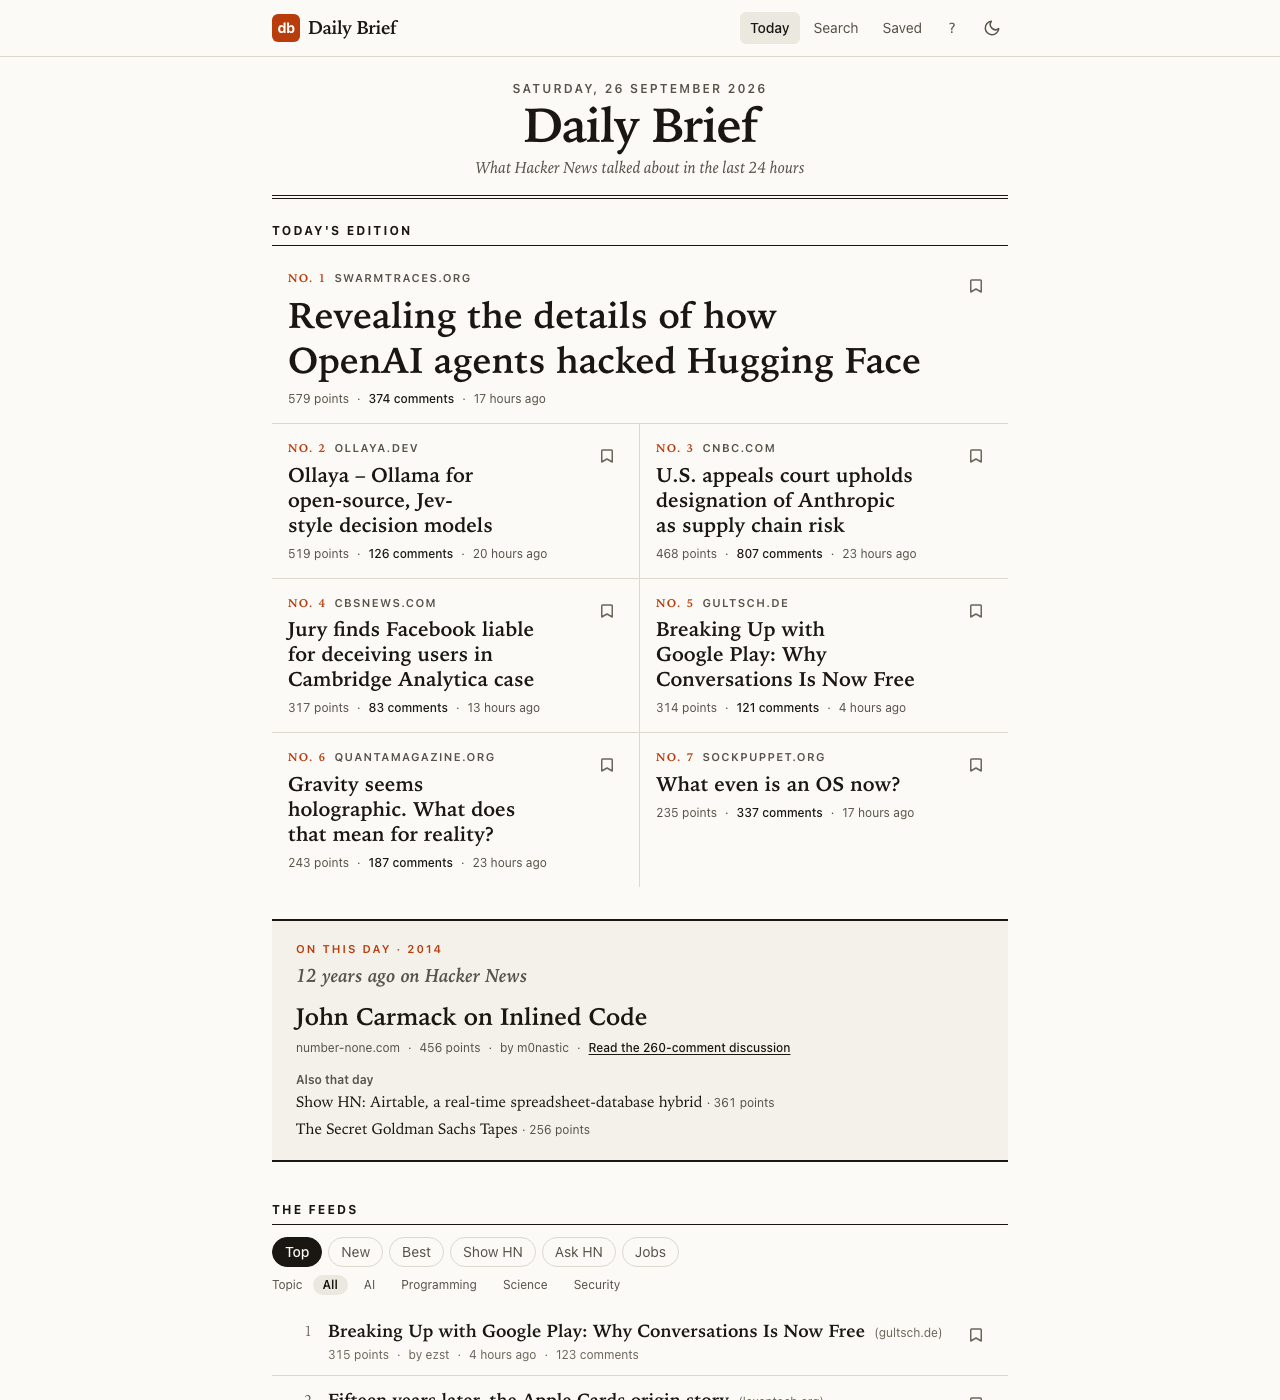
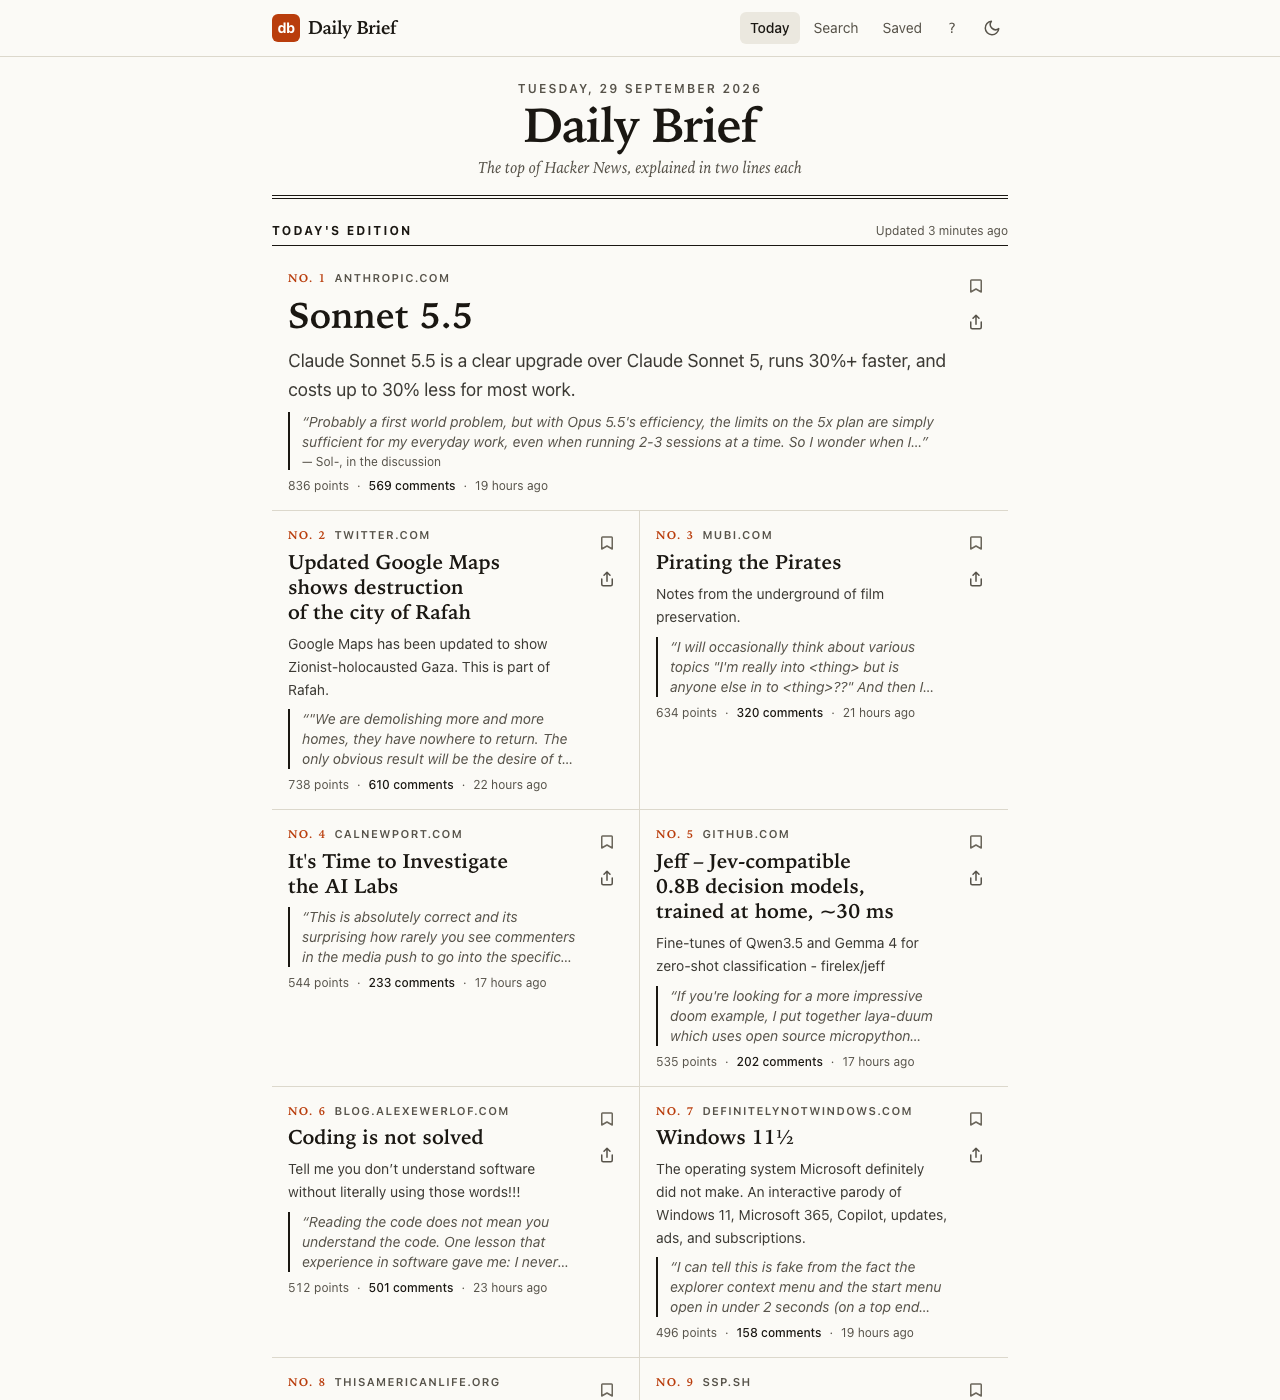
docs: explain how the hourly edition is built

diff --git a/README.md b/README.md
@@ -2,9 +2,11 @@
 
 **[Open Daily Brief](https://mrnednick.github.io/daily-brief/)**
 
-**Today's edition of Hacker News.** Open it in the morning and one screen
-tells you what the site talked about in the last 24 hours — then a real story
-from this same date years ago, then the feeds.
+**Today's edition of Hacker News, explained.** Open it in the morning and one
+screen tells you what the site talked about in the last 24 hours — every
+headline with two lines on what it actually is and one line from the
+discussion, so a title like "Sonnet 5.5" never leaves you guessing. Then a real
+story from this same date years ago, then the feeds.
 
 ![Today's edition in dark theme](docs/screenshot.png)
 
@@ -21,9 +23,13 @@ written up at the bottom.
 
 ## What it does
 
-- **Today's edition** — the seven highest-scoring stories posted in the last
-  24 hours, laid out like a front page: one lead, six below it, each with its
+- **Today's edition** — the nine highest-scoring stories posted in the last
+  24 hours, laid out like a front page: one lead, eight below it, each with its
   site, points, comment count and age.
+- **What it is about** — under every headline, the article's own two-line
+  summary and the first reply from the discussion that says something in its
+  own words. The story page opens with the same summary and a link to the
+  original.
 - **On this day** — "12 years ago on Hacker News": a real story from this
   calendar date in an earlier year, with its discussion. The year is picked
   from the date, so it changes daily; if that year has nothing (before HN
@@ -43,7 +49,8 @@ written up at the bottom.
 - **Keyboard reading** — `j`/`k` move between stories, `o` opens, `c` opens
   the discussion, `s` saves, `?` lists the keys. They stay quiet while you type.
 - **Share** — the system share sheet on phones; on desktop, copy a link to the
-  article or to the discussion here. Discussion links open directly.
+  article or to the discussion here, or send it to Telegram. Discussion links
+  open directly.
 - **Search** — full-text across all of Hacker News through Algolia, debounced
   and abortable, with matches highlighted.
 
@@ -80,6 +87,17 @@ src/routes/       today's edition, discussion, saved, search
 The data layer is deliberately dumb — it fetches and maps, and knows nothing
 about components. Everything stateful lives in three small classes, and the
 components read them directly.
+
+**How the edition is built.** Every hour a scheduled GitHub Actions job runs
+`scripts/build-edition.ts` before the site is built. It takes the day's top
+stories, reads the head of each article for its `og:description` (or the post
+text for Ask HN and Show HN), picks the first substantive top-level reply, and
+writes `edition.json` next to the app — no API keys, no paid services. The job
+cannot break the site: an article that times out just has no summary, a failed
+search carries the live edition over, and the app itself falls back to the live
+Hacker News search whenever the file is missing or more than three hours old,
+still matching whatever summaries the file has by story id. The parsing lives in
+`src/lib/api/gist.ts` and is tested on recorded HTML.
 
 **The edition comes from Algolia, not the Firebase API.** Firebase only has
 ranked id lists; "the biggest stories of the last 24 hours" and "this date in
@@ -148,7 +166,8 @@ appear before the browser has asked Hacker News for them.
 ## Deploy
 
 Published on [GitHub Pages](https://mrnednick.github.io/daily-brief/). Pushes to
-`main` run type checks, tests and a production build before deployment.
+`main` and an hourly schedule run type checks, tests, the edition build and a
+production build before deployment.
 
 For the Pages build, set `GITHUB_PAGES=true`; links and assets then use
 `/daily-brief`. Without this flag the build targets a domain root. Static routes
